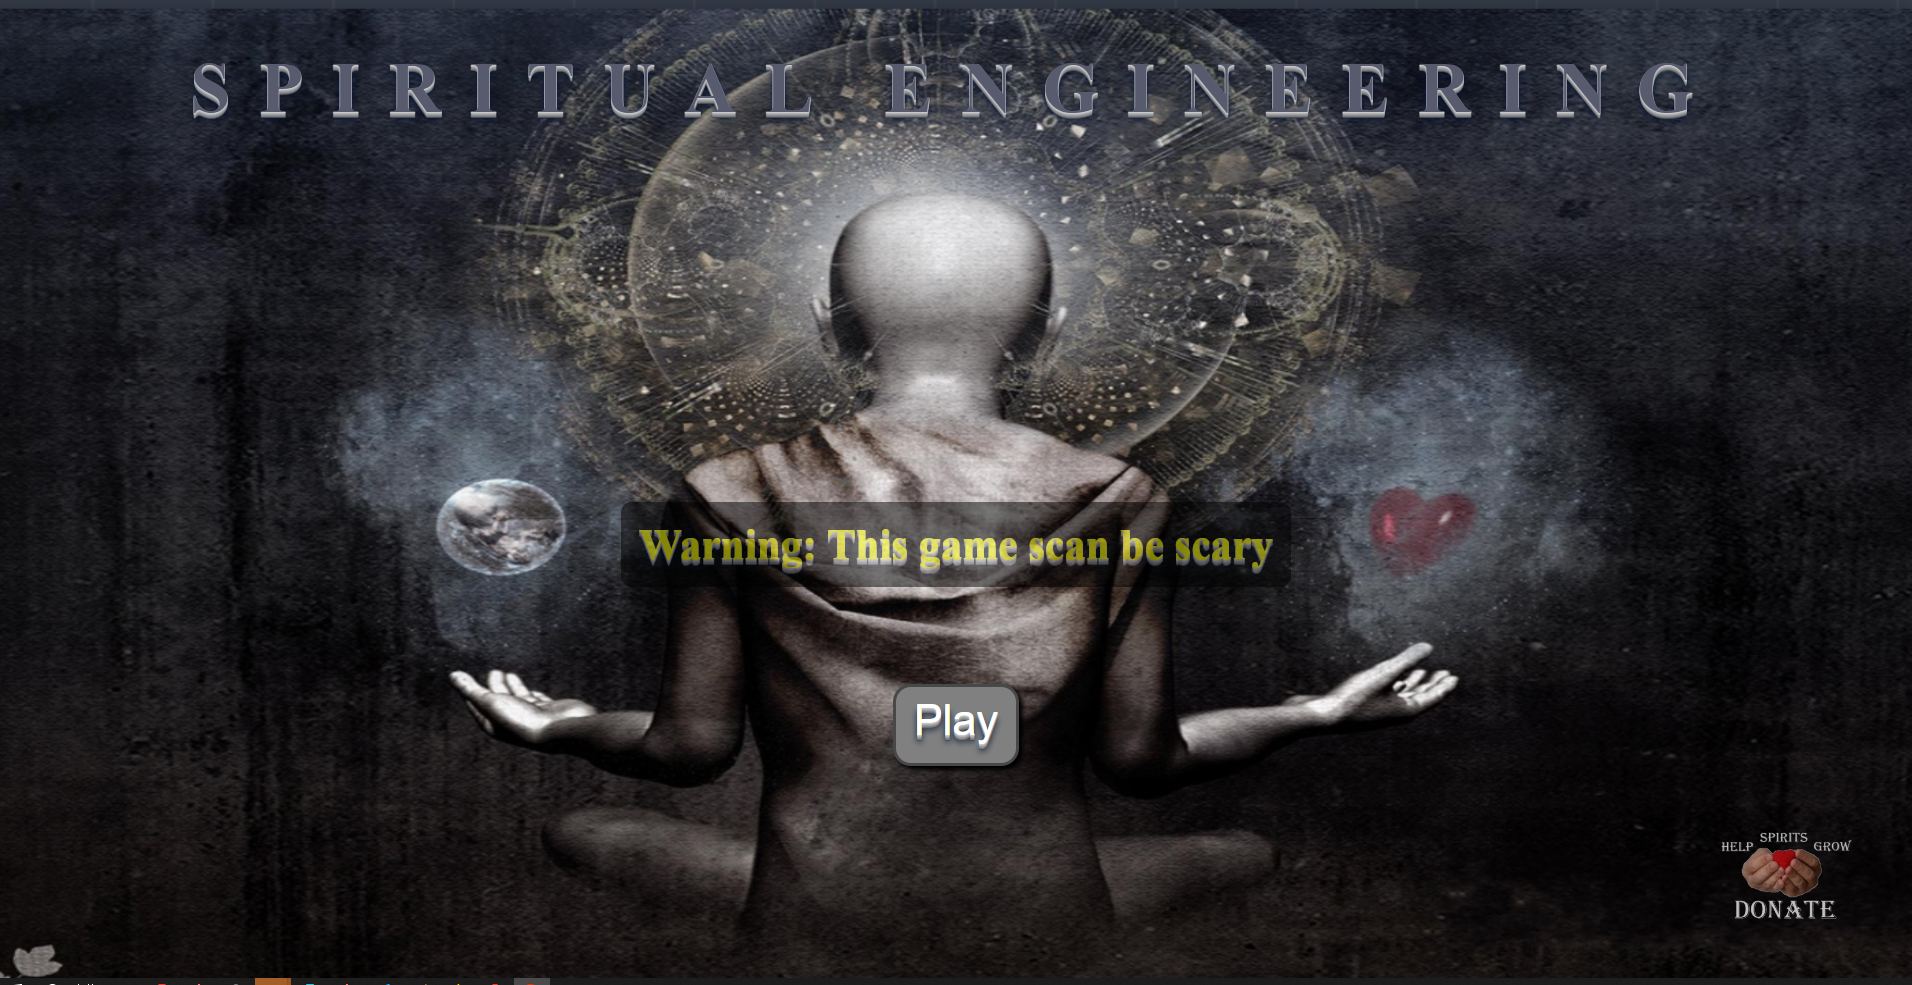
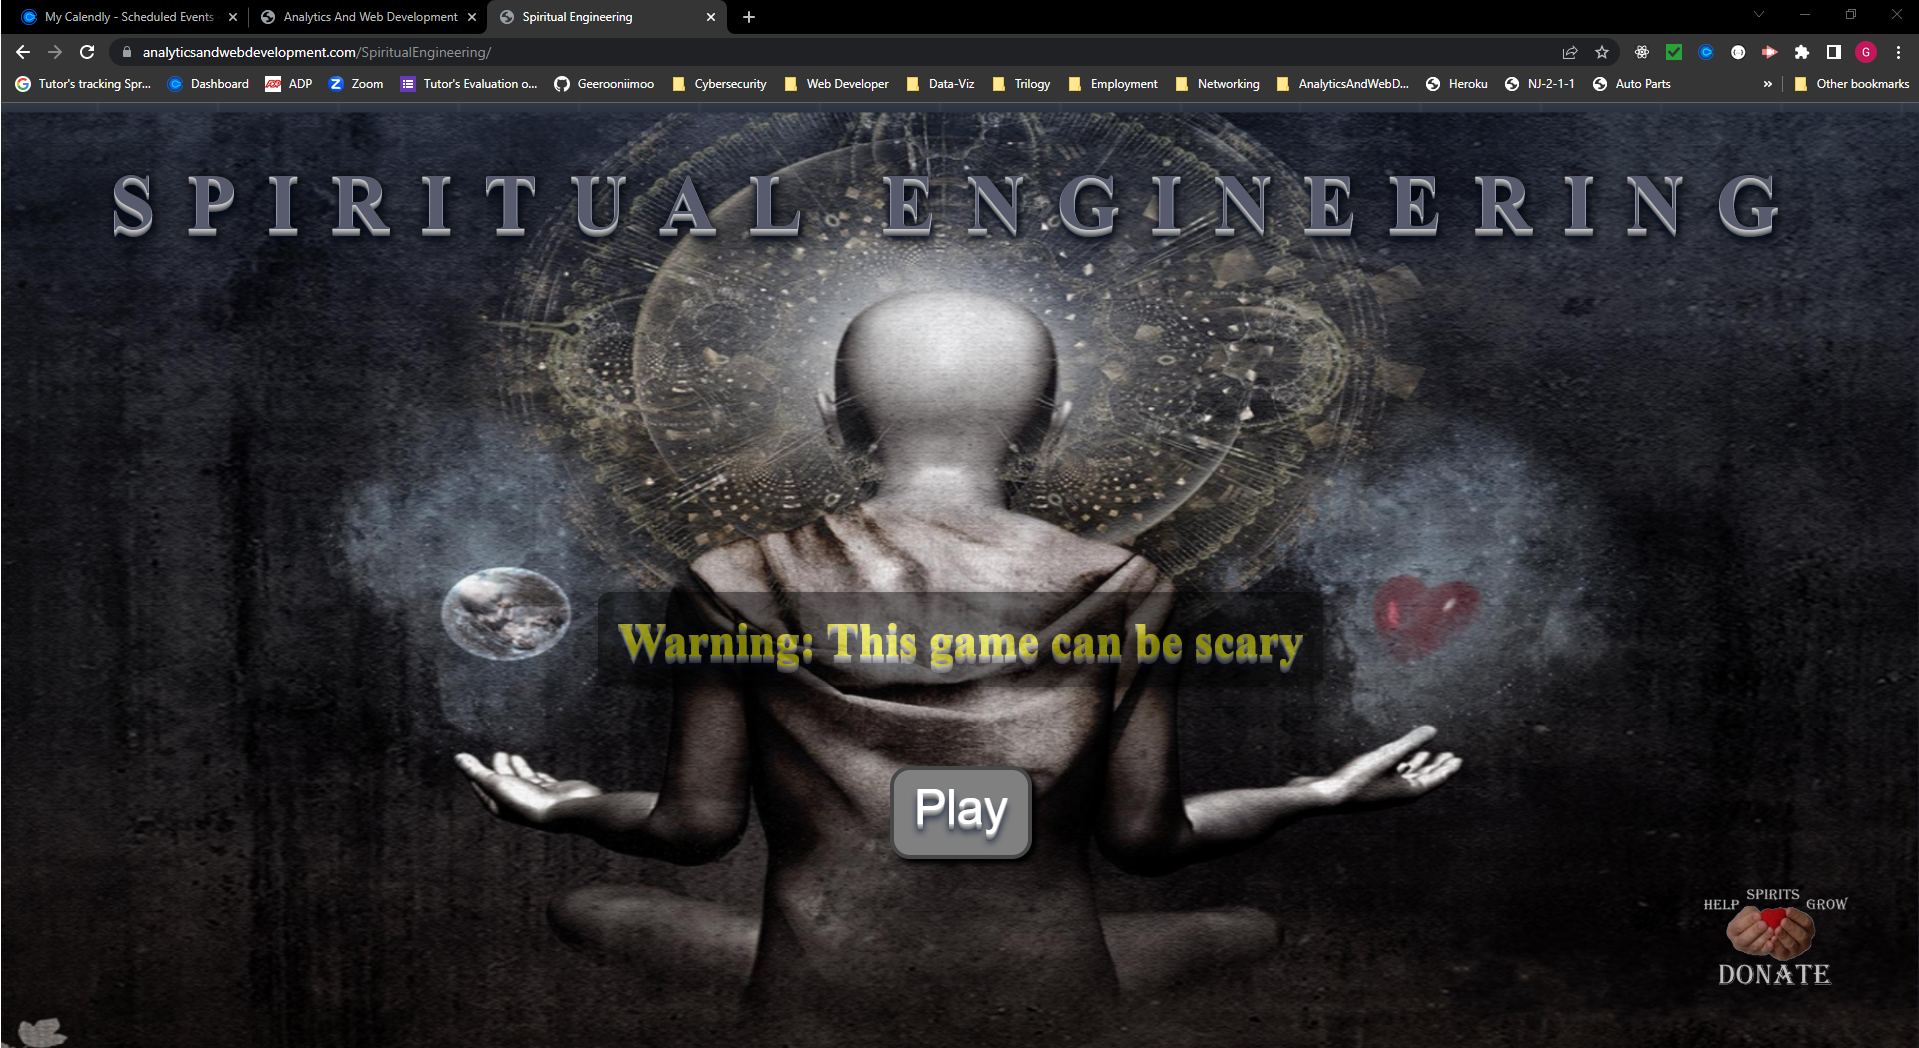
lighten up the button's color

diff --git a/assets/css/style.css b/assets/css/style.css
@@ -590,7 +590,7 @@ button:hover {
     text-align: left;
     border-radius: 20px;
     margin: 5px auto;
-    color: #575b6d;
+    color: #adb0ba;
     /* color: #931426; */
     padding: 0 30px 10px;
     background: black;
